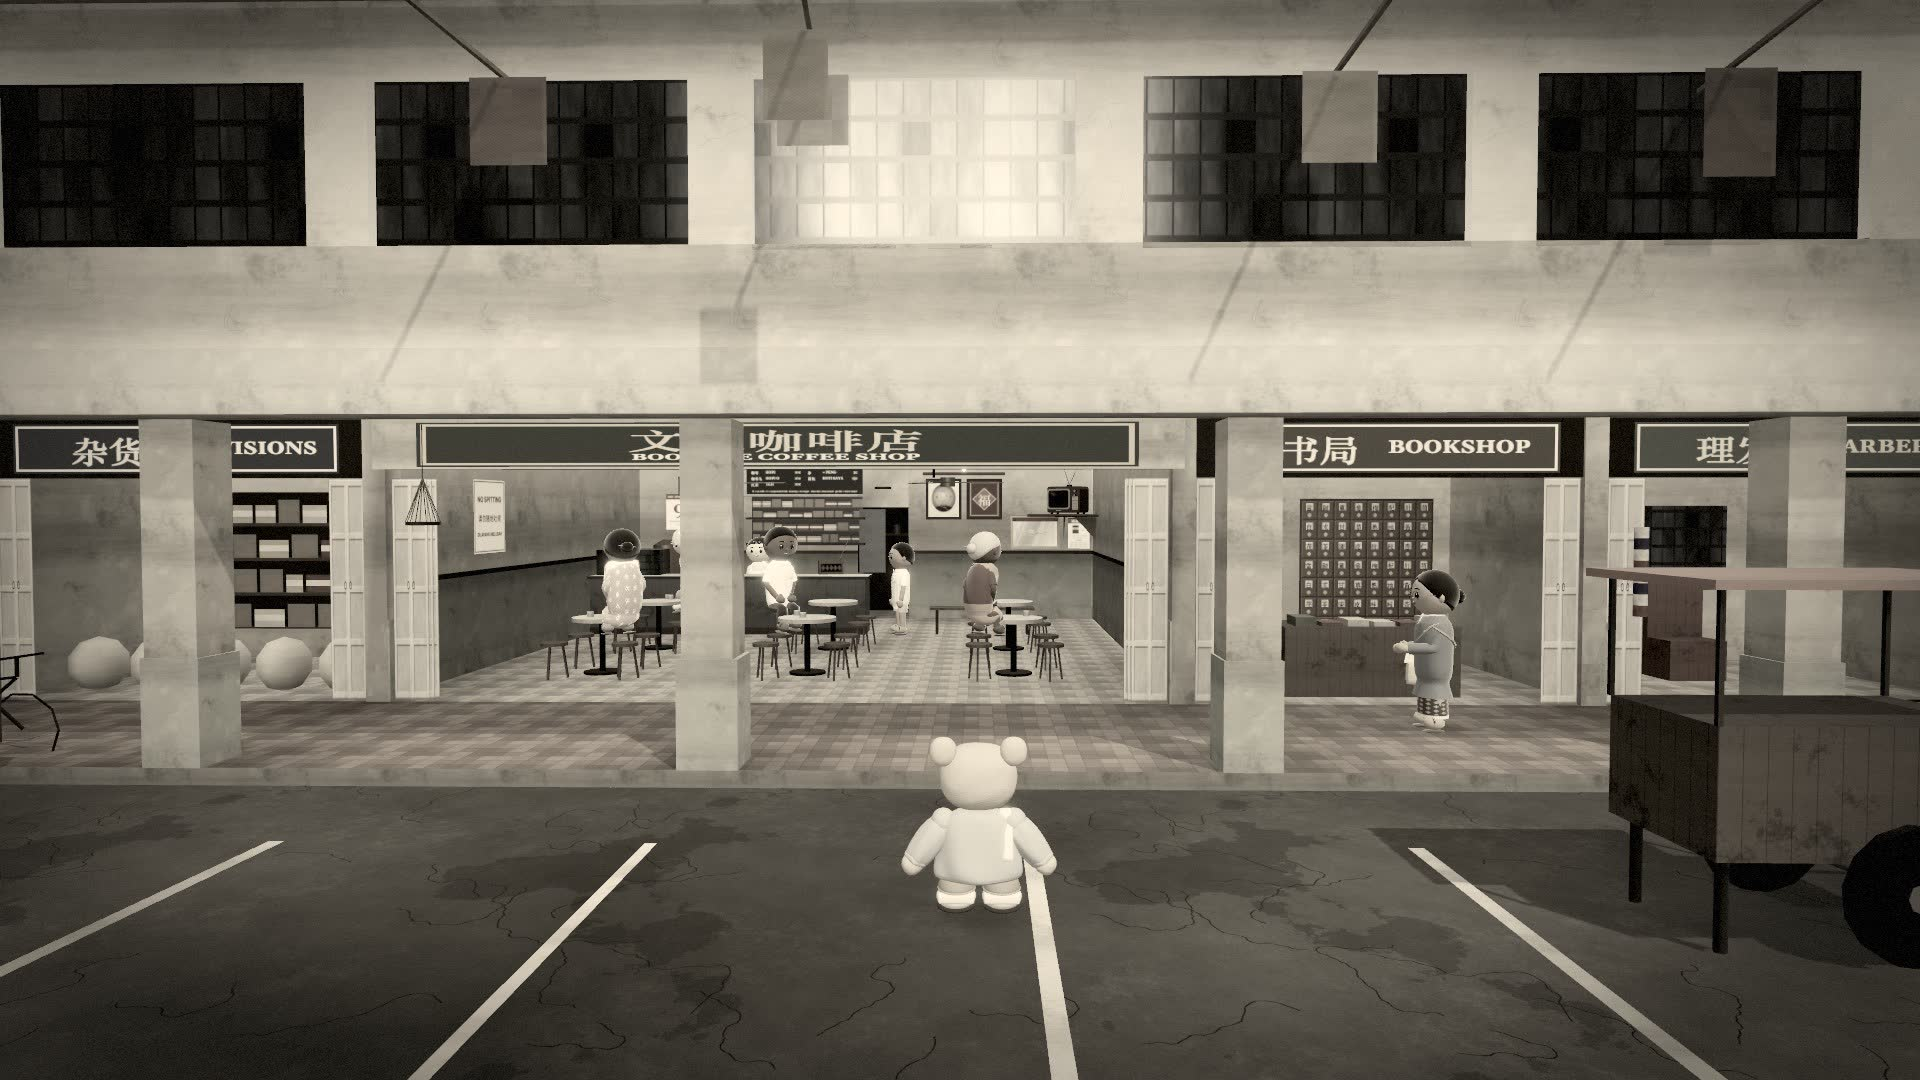
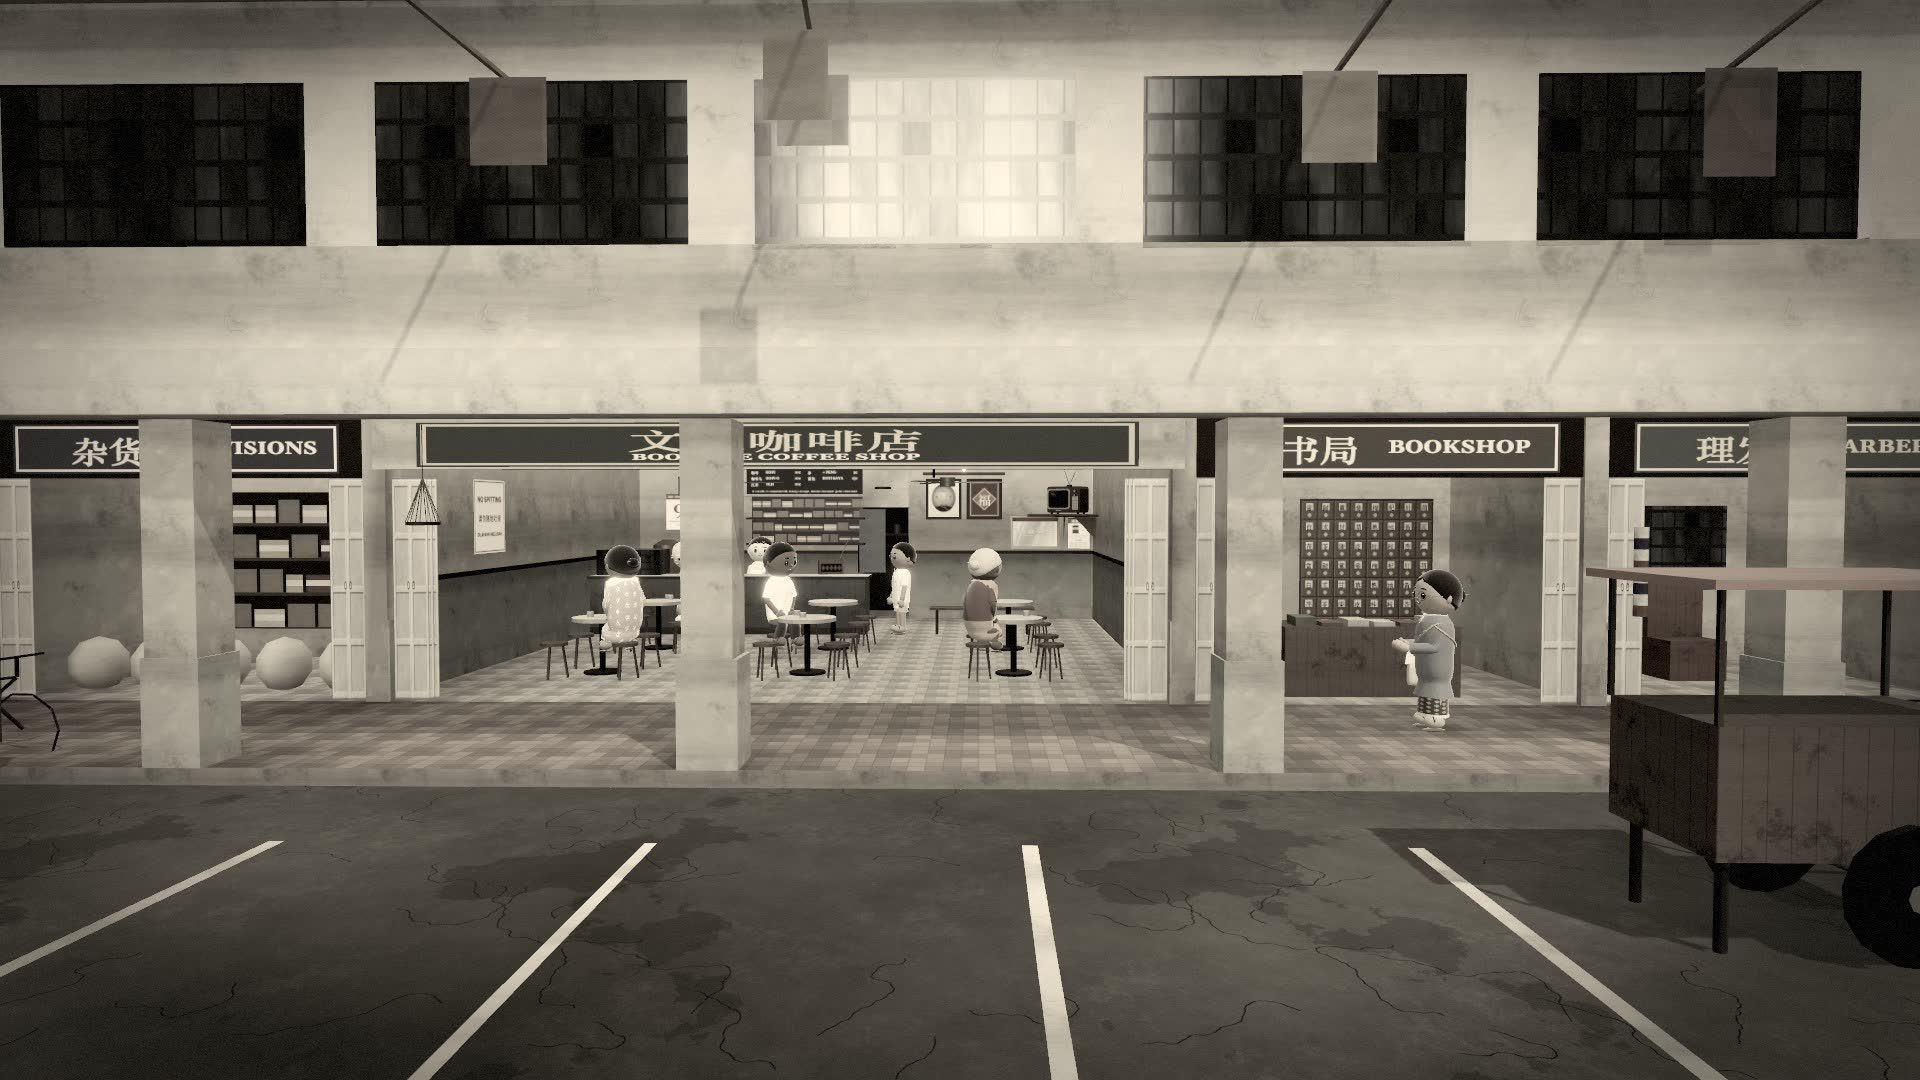
Title: no Sparky in Chapter 2's title scene or print, like the other chapters

diff --git a/src/chapters/ind.js b/src/chapters/ind.js
@@ -149,6 +149,8 @@ export class IndependenceChapter extends ChapterKit {
 
   /** Title background: a slow drift across the car park, looking at the shops. */
   titleShot(t) {
+    // No Sparky on the title screen (like the other chapters' prints); run() shows him again.
+    if (this.player) this.player.root.visible = false;
     // Between the corridor pillars (x = 0 and 4.5), so the camera never snags on one.
     const s = Math.sin(t * 0.05);
     return [V(2.25 + s * 1.4, 2.3 + Math.sin(t * 0.07) * 0.25, 8.5), V(2.0 + s * 0.6, 1.9, -5)];
@@ -405,6 +407,7 @@ export class IndependenceChapter extends ChapterKit {
     g.album.setPages({ realVsImagined: T.realVsImagined, sources: T.sources.map((s) => ({ title: `${s.title} — ${s.publisher}`, url: s.url })), credits: T.credits.audio });
     g.npcs = Object.values(this.cast);
     g.player = this.player;
+    this.player.root.visible = true;
     this.placeCast();
     this.setEra('then');
     this.setLighting('day');
